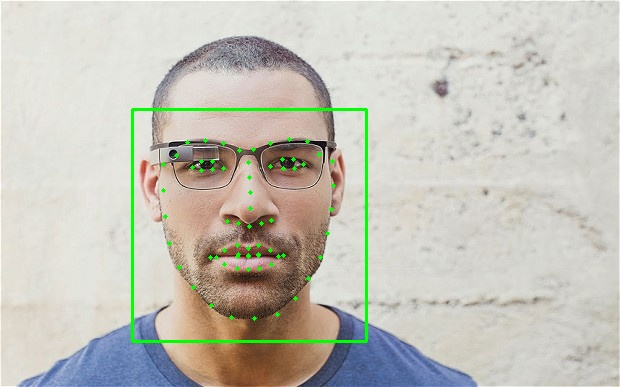
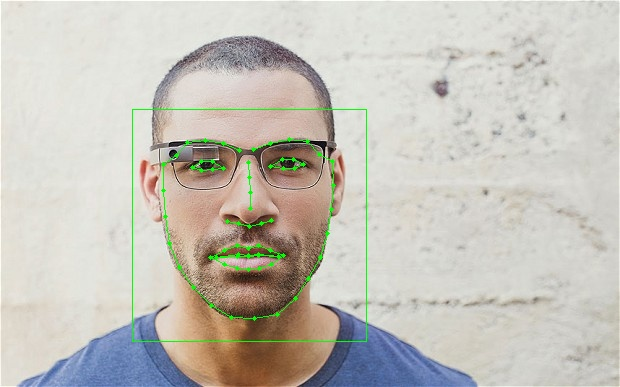
Mod: images.py, Marked the facial landmarks to get a better representation

diff --git a/ML/data_gathering/images.py b/ML/data_gathering/images.py
@@ -8,6 +8,7 @@ frame = cv2.imread("raw_data/images/face1.jpg")
 gray = cv2.cvtColor(frame, cv2.COLOR_BGR2GRAY)
 faces = detector(gray)
 color = (0, 255, 0)
+
 for face in faces:
 
     x1 = face.left()    
@@ -23,7 +24,7 @@ for face in faces:
     y2 += int(y2/25)
 
     #Putting a box around the face 
-    cv2.rectangle(frame, (x1, y1), (x2, y2), color, 2)
+    cv2.rectangle(frame, (x1, y1), (x2, y2), color, 1)
 
     landmarks = predictor(gray, face)
 
@@ -44,7 +45,111 @@ for face in faces:
         Ouuter lips        48:59
         Inner lips         60:67
     """
+    #region Landmarks in a nuttshel
+    #Jawline 
+    start_x = landmarks.part(0).x
+    start_y = landmarks.part(0).y
+    for point in range(1, 17):
+        end_x = landmarks.part(point).x
+        end_y = landmarks.part(point).y
+        cv2.line(frame, (start_x, start_y), (end_x, end_y), color, 1)
+        start_x = end_x
+        start_y = end_y
+        
+    #Right eyebrow
+    start_x = landmarks.part(17).x
+    start_y = landmarks.part(17).y
+    for point in range(18, 22):
+        end_x = landmarks.part(point).x
+        end_y = landmarks.part(point).y
+        cv2.line(frame, (start_x, start_y), (end_x, end_y), color, 1)
+        start_x = end_x
+        start_y = end_y
 
+    #Left eyebrow
+    start_x = landmarks.part(22).x
+    start_y = landmarks.part(22).y
+    for point in range(23, 27):
+        end_x = landmarks.part(point).x
+        end_y = landmarks.part(point).y
+        cv2.line(frame, (start_x, start_y), (end_x, end_y), color, 1)
+        start_x = end_x
+        start_y = end_y
+    
+    #Nose line
+    start_x = landmarks.part(27).x
+    start_y = landmarks.part(27).y
+    for point in range(28, 31):
+        end_x = landmarks.part(point).x
+        end_y = landmarks.part(point).y
+        cv2.line(frame, (start_x, start_y), (end_x, end_y), color, 1)
+        start_x = end_x
+        start_y = end_y
+    
+    #Lower nose line
+    start_x = landmarks.part(31).x
+    start_y = landmarks.part(31).y
+    for point in range(32, 36):
+        end_x = landmarks.part(point).x
+        end_y = landmarks.part(point).y
+        cv2.line(frame, (start_x, start_y), (end_x, end_y), color, 1)
+        start_x = end_x
+        start_y = end_y
+    
+    #Right eye 
+    start_x = landmarks.part(36).x
+    start_y = landmarks.part(36).y
+    for point in range(37, 42):
+        end_x = landmarks.part(point).x
+        end_y = landmarks.part(point).y
+        cv2.line(frame, (start_x, start_y), (end_x, end_y), color, 1)
+        start_x = end_x
+        start_y = end_y
+    cv2.line(frame, (start_x, start_y), (landmarks.part(36).x, landmarks.part(36).y), color, 1)
+
+    #Left eye
+    start_x = landmarks.part(42).x
+    start_y = landmarks.part(42).y
+    for point in range(43, 48):
+        end_x = landmarks.part(point).x
+        end_y = landmarks.part(point).y
+        cv2.line(frame, (start_x, start_y), (end_x, end_y), color, 1)
+        start_x = end_x
+        start_y = end_y
+    cv2.line(frame, (start_x, start_y), (landmarks.part(42).x, landmarks.part(42).y), color, 1)
+
+    #Outter lips
+    start_x = landmarks.part(48).x
+    start_y = landmarks.part(48).y
+    for point in range(49, 60):
+        end_x = landmarks.part(point).x
+        end_y = landmarks.part(point).y
+        cv2.line(frame, (start_x, start_y), (end_x, end_y), color, 1)
+        start_x = end_x
+        start_y = end_y
+    cv2.line(frame, (start_x, start_y), (landmarks.part(48).x, landmarks.part(48).y), color, 1)            
+
+    #Inner lips
+    start_x = landmarks.part(60).x
+    start_y = landmarks.part(60).y
+    for point in range(61, 68):
+        end_x = landmarks   .part(point).x
+        end_y = landmarks.part(point).y
+        cv2.line(frame, (start_x, start_y), (end_x, end_y), color, 1)
+        start_x = end_x
+        start_y = end_y
+    cv2.line(frame, (start_x, start_y), (landmarks.part(60).x, landmarks.part(60).y), color, 1)            
+
+    #Connecting the jaw line with the eyebrows 
+    jawline_startpoints = (landmarks.part(0).x, landmarks.part(0).y)
+    jawline_endpoints = (landmarks.part(16).x, landmarks.part(16).y)
+
+    left_eyebrow_startpoints = (landmarks.part(17).x, landmarks.part(17).y)
+
+    cv2.line(frame, jawline_startpoints, left_eyebrow_startpoints, color, 1)
+    right_eyebrow_startpoints = (landmarks.part(26).x, landmarks.part(26).y)
+    cv2.line(frame, jawline_endpoints, right_eyebrow_startpoints, color, 1)
+    #endregion
 cv2.imshow("frame", frame)
 cv2.imwrite("raw_data/images/include_face1_after.jpg", frame)
 cv2.waitKey(0)
